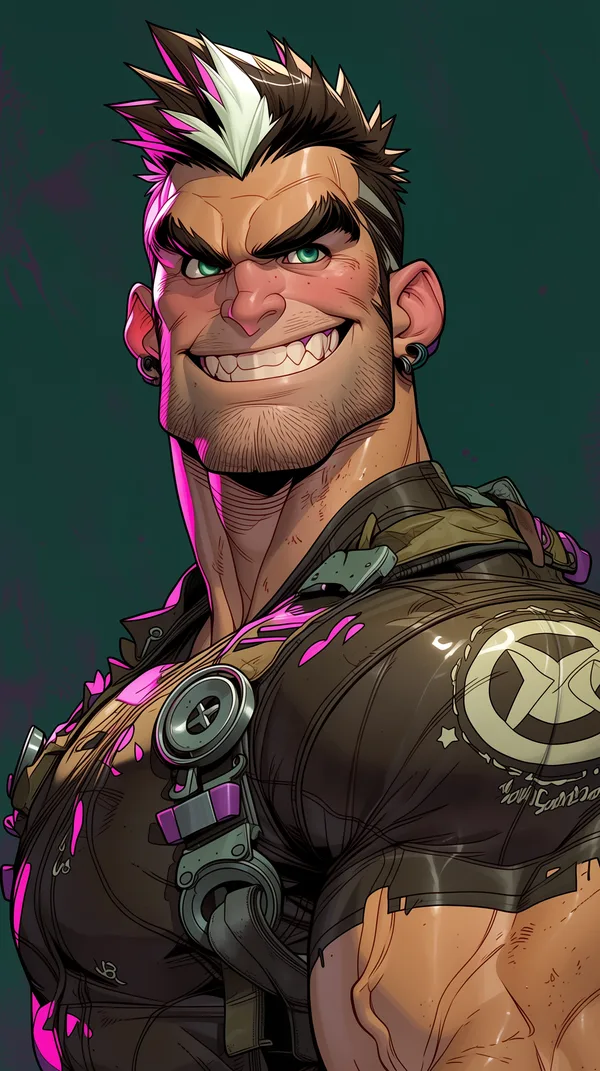
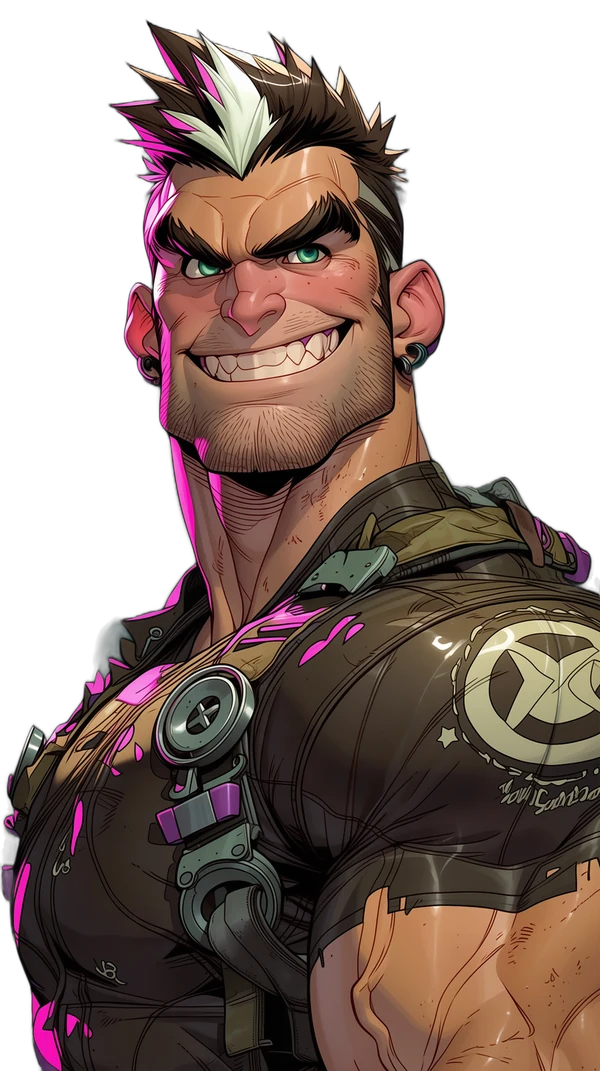
Transparent character portraits (background removed) with matching UI backdrops
Portraits were cut out with the isnet-anime segmentation model, stray background fragments
(artist signatures) removed by keeping only the main connected silhouette. Select cards, side
panels, VS splash and result screen now draw them over themed backdrops with a player-coloured
outline glow.

Claude-Session: https://claude.ai/code/session_01J8VCNCeezw1Tz8JXaXW5U3

diff --git a/styles.css b/styles.css
@@ -150,3 +150,18 @@ html, body { margin: 0; height: 100%; background: #07030b; overflow: hidden; fon
 @keyframes fadeIn { from { opacity: 0; } }
 .side.waiting .portrait-frame { background: repeating-linear-gradient(115deg, #120a18 0 14px, #1a1022 14px 28px); }
 .side.waiting .portrait-frame::before { content: '?'; position: absolute; inset: 0; display: flex; align-items: center; justify-content: center; font-size: 220px; color: rgba(255,255,255,.08); z-index: 1; }
+
+/* ---------- transparent (cut-out) portraits ---------- */
+.card-img { background-color: #24122f; background-size: 135%; background-position: center 6%; background-repeat: no-repeat; }
+.card.c1 .card-img { background-color: #3a1240; }
+.card.c2 .card-img { background-color: #0f3434; }
+.portrait-frame { background: radial-gradient(ellipse at 50% 35%, rgba(255,255,255,.12), transparent 60%), repeating-linear-gradient(115deg, rgba(255,255,255,.04) 0 6px, transparent 6px 14px), #160b20; }
+.p1 .portrait-frame { background-color: #2a0d2e; }
+.p2 .portrait-frame { background-color: #0b2626; }
+.portrait { background-repeat: no-repeat; background-size: 108%; background-position: center 4%; }
+.p1 .portrait.base { filter: drop-shadow(4px 0 0 var(--p1)) drop-shadow(0 0 18px rgba(255,63,208,.45)); }
+.p2 .portrait.base { filter: drop-shadow(-4px 0 0 var(--p2)) drop-shadow(0 0 18px rgba(63,230,208,.45)); }
+.result .result-portrait { background-color: #24122f; background-repeat: no-repeat; filter: drop-shadow(0 0 16px rgba(255,210,63,.35)); }
+.vs-img { background-repeat: no-repeat; background-size: contain; background-position: center top; }
+.left .vs-img { filter: drop-shadow(8px 0 0 var(--p1)) drop-shadow(0 0 30px rgba(255,63,208,.5)); }
+.right .vs-img { filter: drop-shadow(8px 0 0 var(--p2)) drop-shadow(0 0 30px rgba(63,230,208,.5)); }
